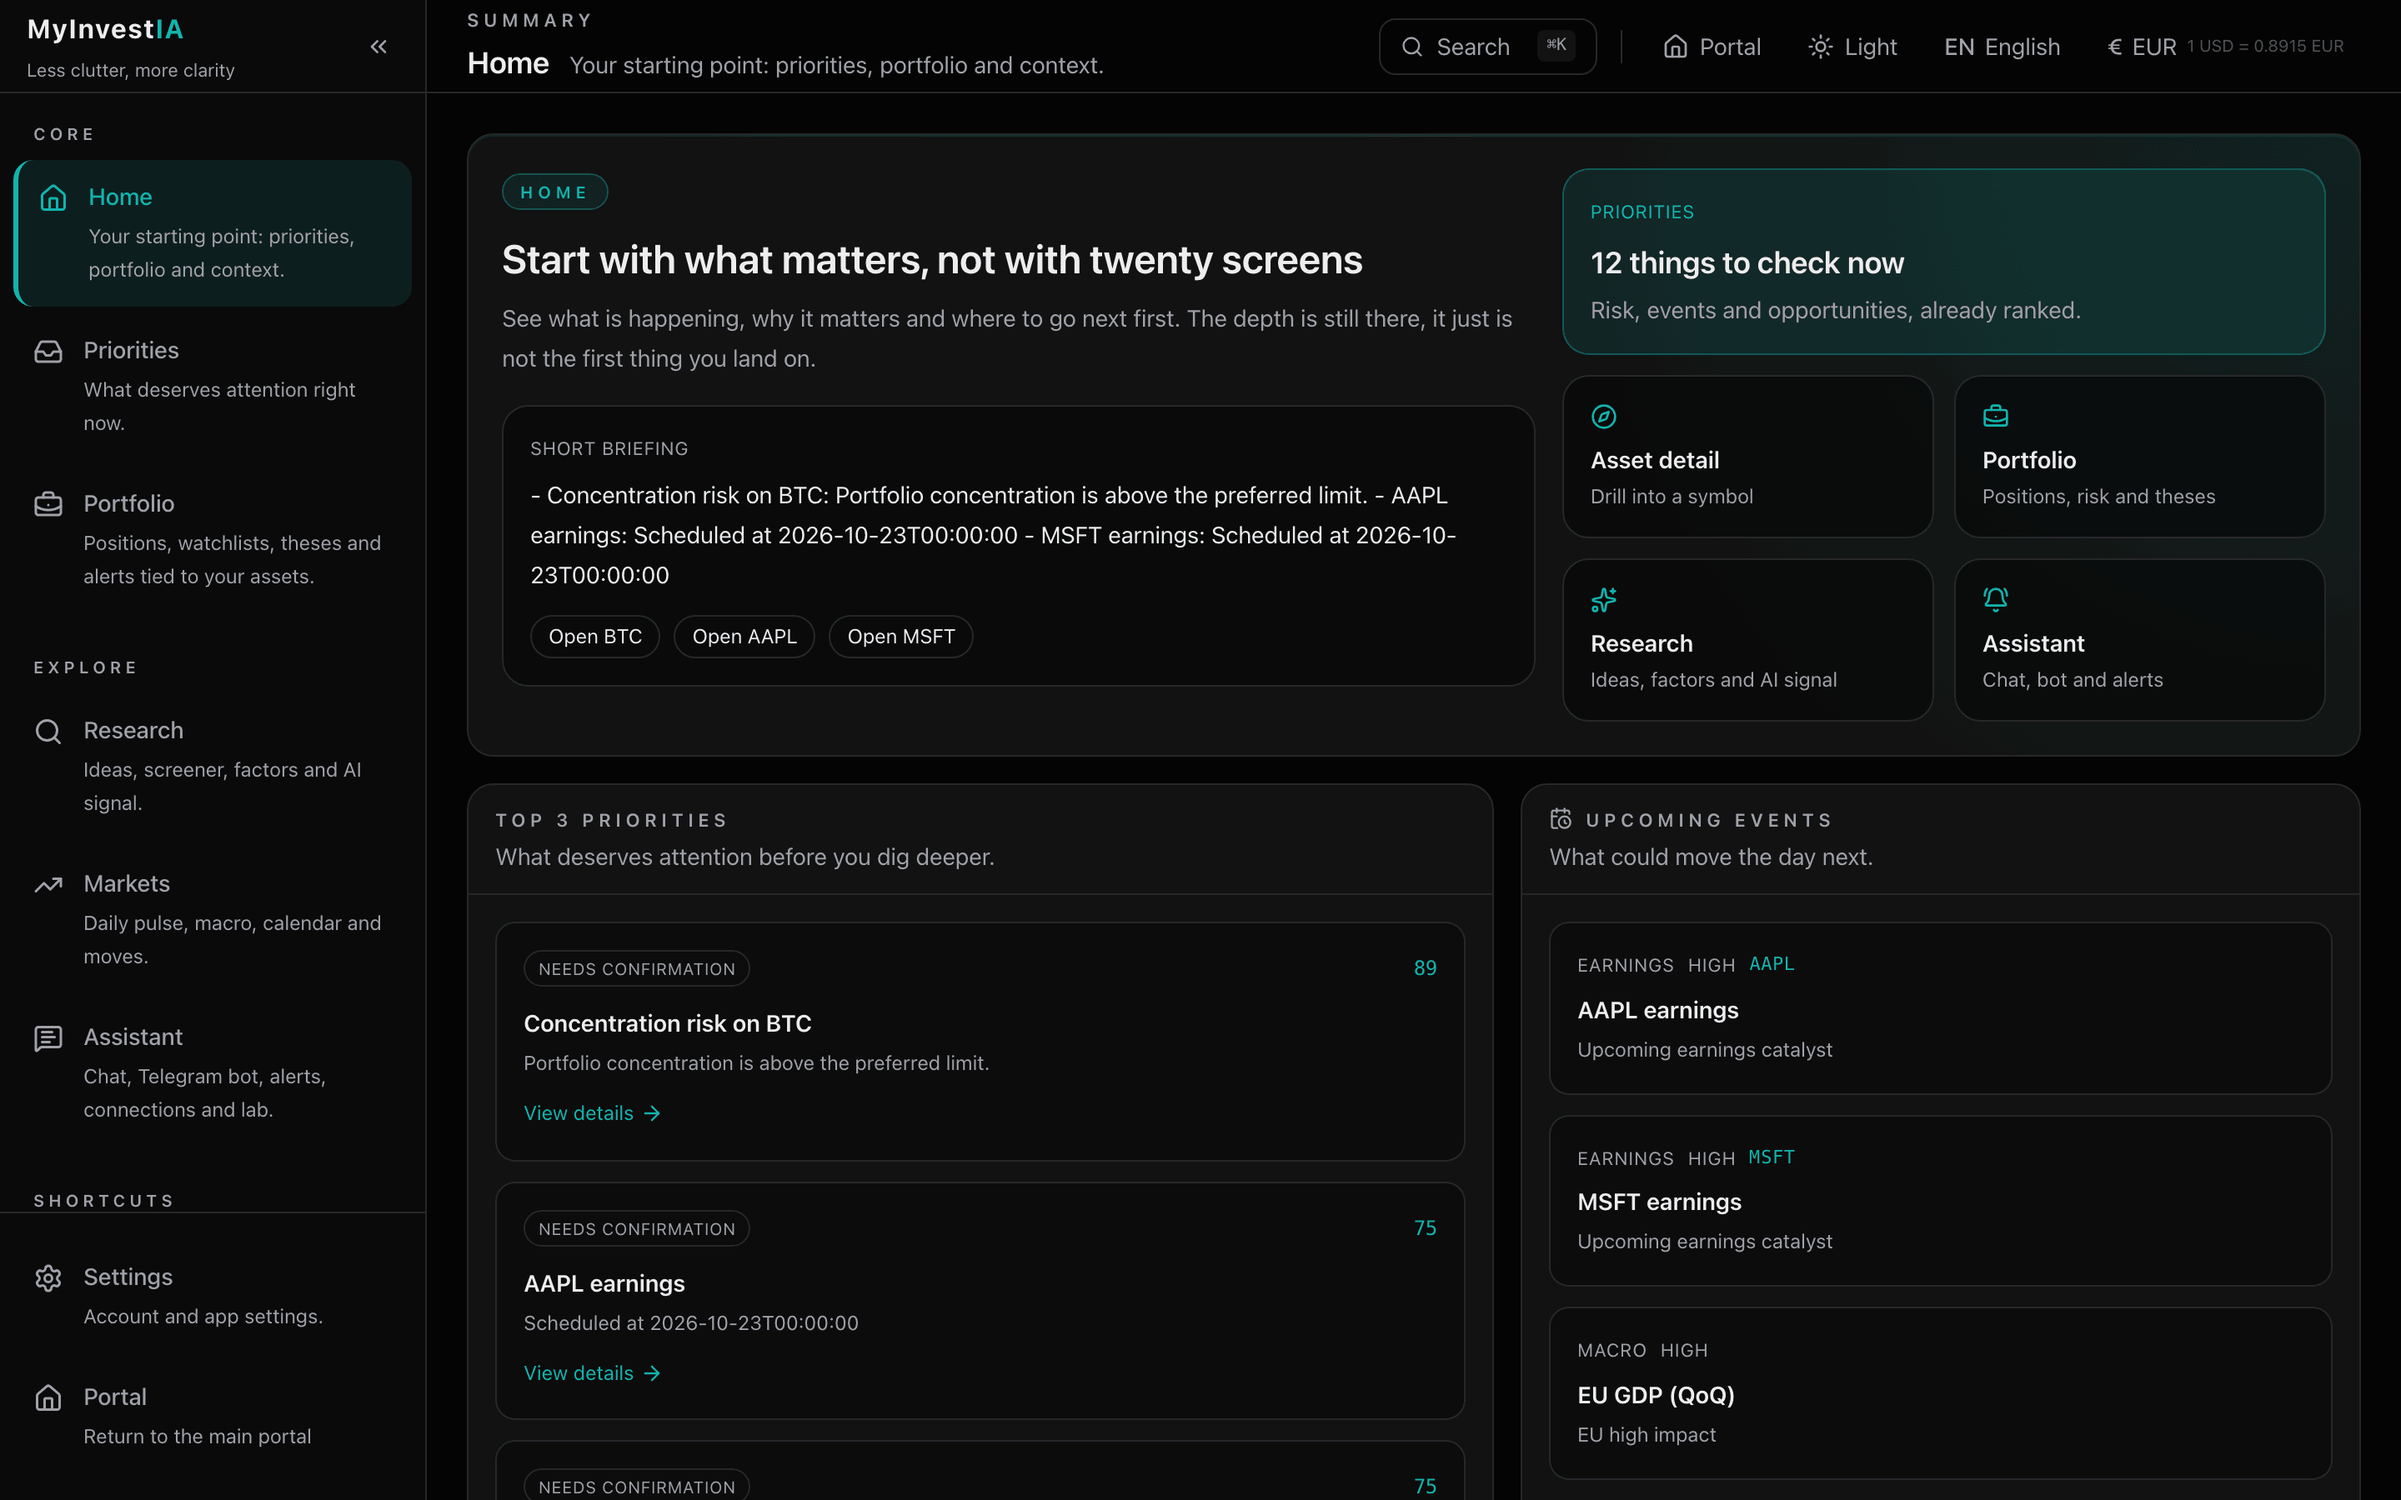
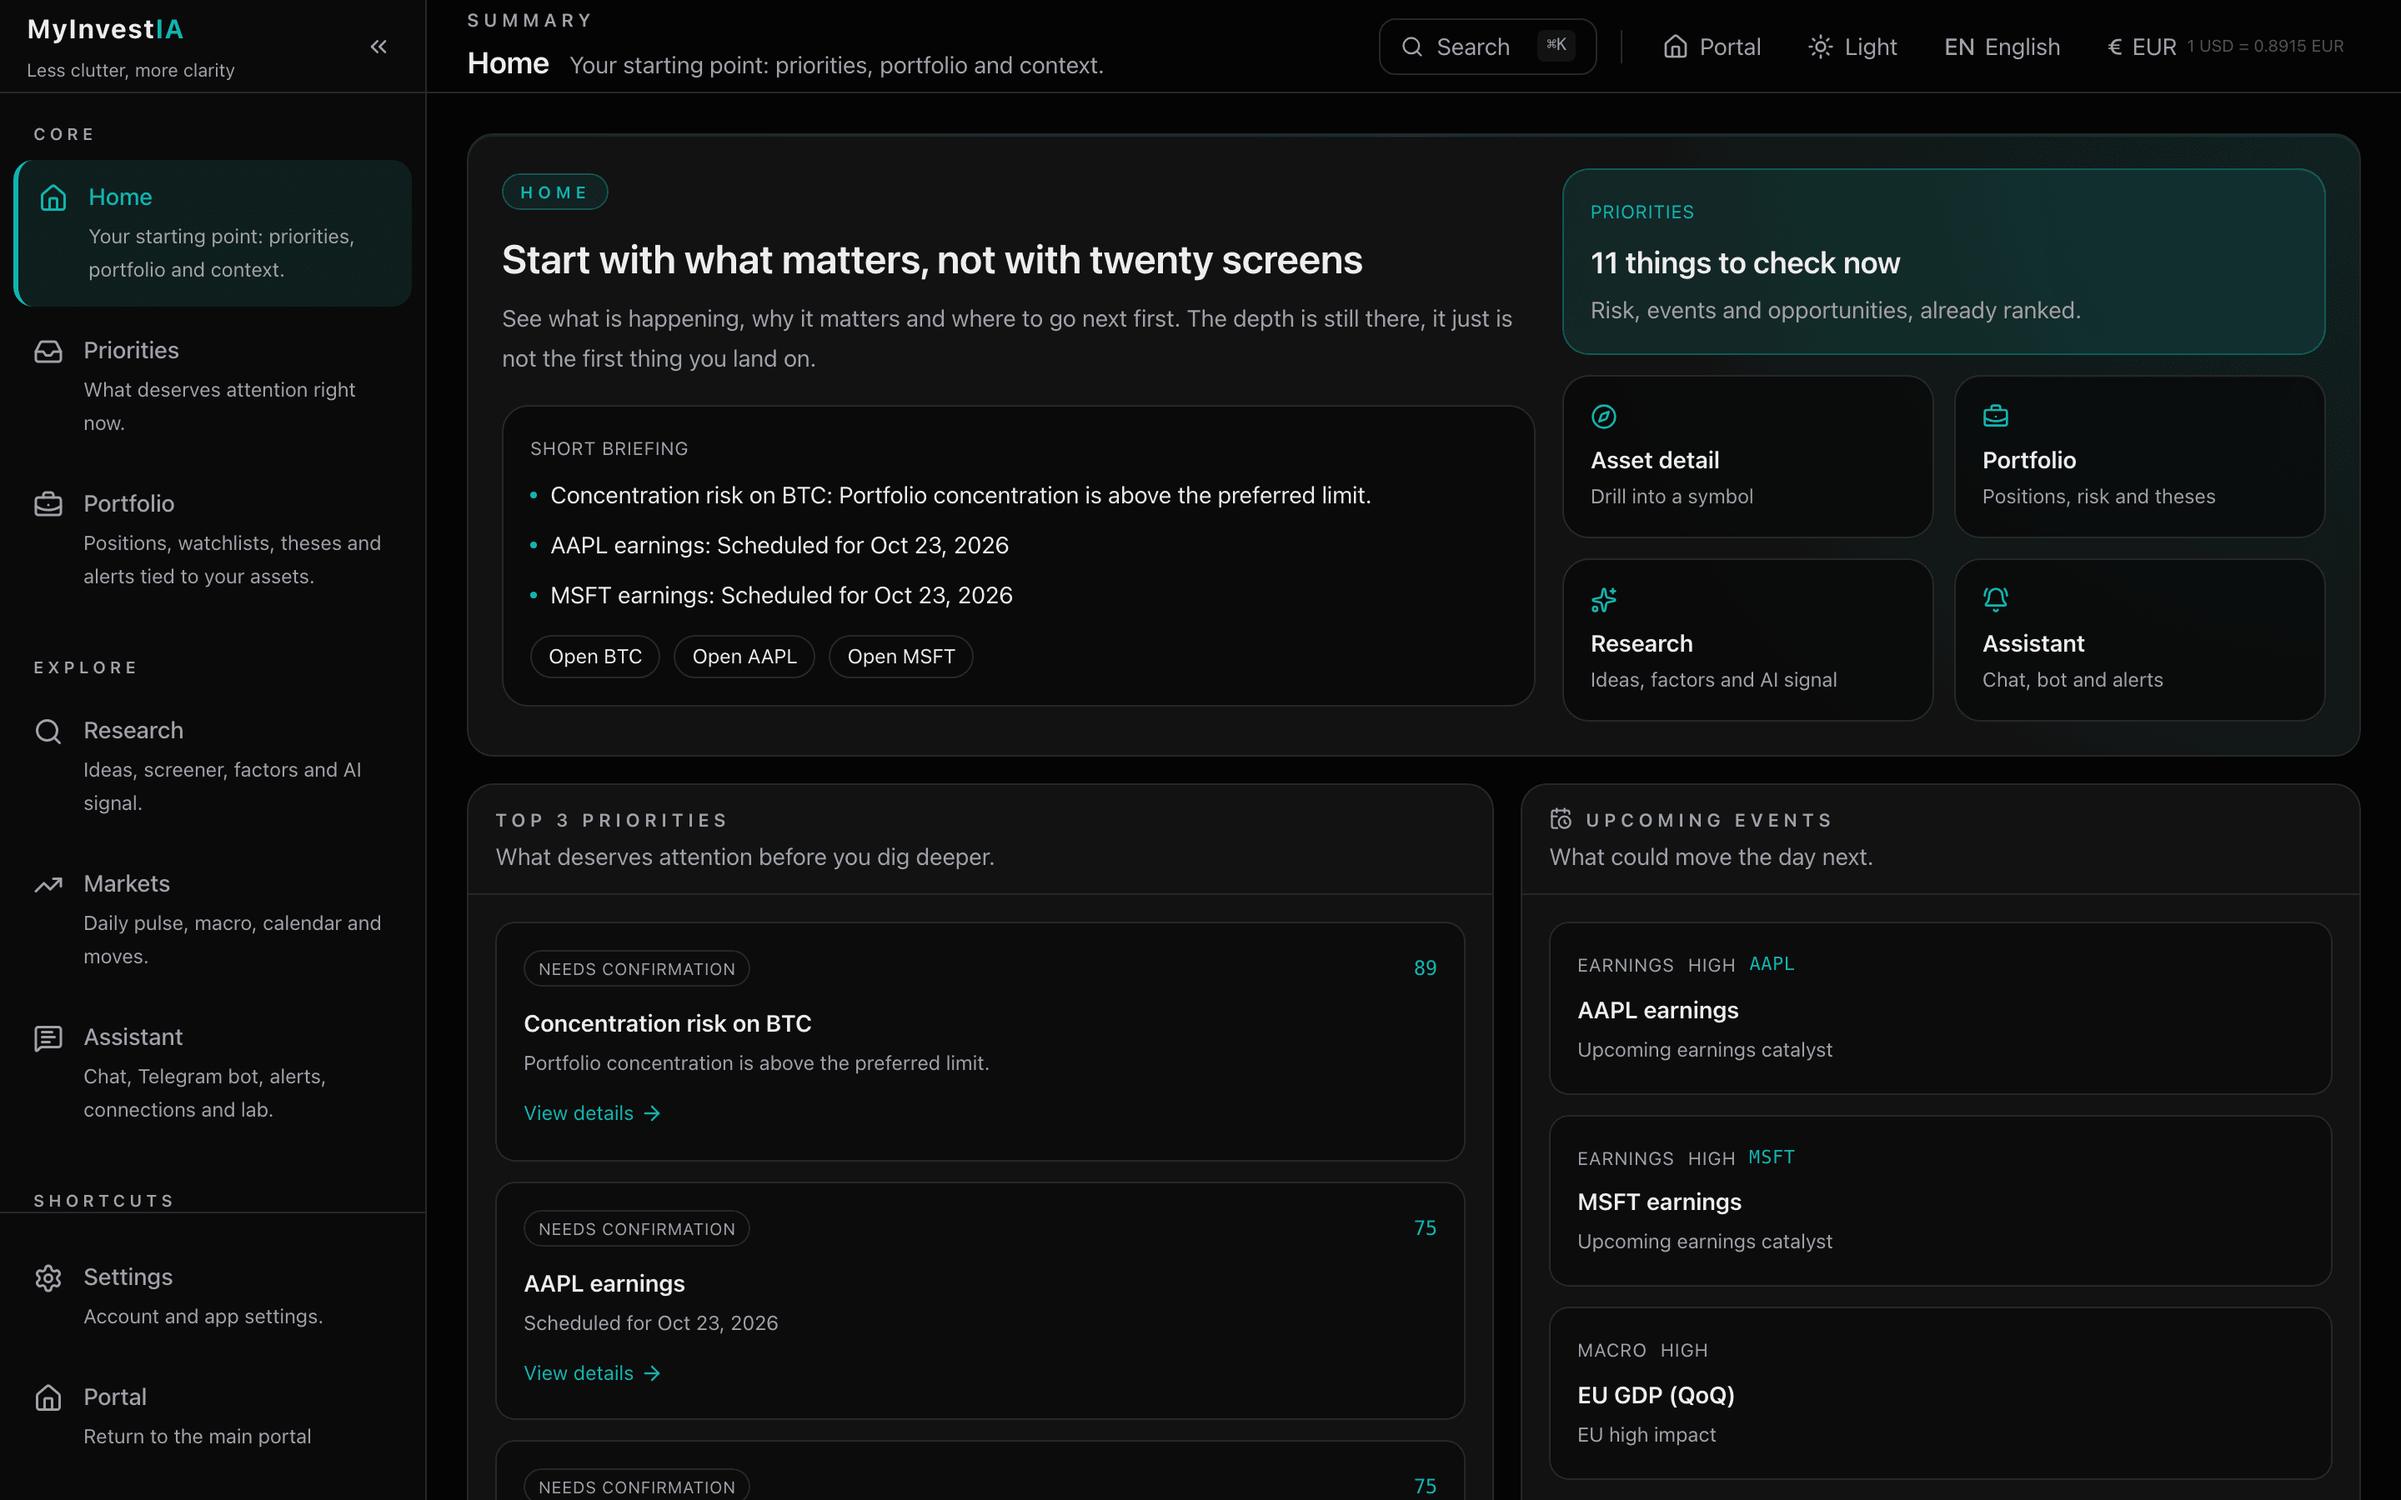
Format inline dates with the active locale and render the briefing as a list
ISO timestamps embedded in inbox and briefing text ("2026-10-23T00:00:00") are now shown as locale dates, and the home briefing renders its bullet points as a list instead of one joined string. Refresh the home screenshot.

Changed region(s): [[0.2188, 0.3111, 0.5938, 0.4667], [0.6562, 0.1556, 0.8125, 0.1867], [0.2812, 0.8711, 0.3438, 0.9022]]

diff --git a/frontend/src/components/views/OverviewView.tsx b/frontend/src/components/views/OverviewView.tsx
@@ -8,7 +8,7 @@ import BreakingNewsFeed from "@/components/dashboard/BreakingNewsFeed";
 import { useInbox } from "@/hooks/useInbox";
 import { useBriefing } from "@/hooks/useBriefing";
 import { useView } from "@/contexts/ViewContext";
-import { getInboxStateLabel } from "@/lib/presentation";
+import { formatInlineDates, getInboxStateLabel } from "@/lib/presentation";
 import useLanguageStore from "@/stores/useLanguageStore";
 
 const COPY = {
@@ -72,6 +72,12 @@ export default function OverviewView() {
   const c = COPY[language];
   const topItems = inbox?.items.slice(0, 3) ?? [];
   const nextEvents = briefing?.next_events?.slice(0, 3) ?? [];
+  // The briefing arrives as markdown: keep the first section's bullet points.
+  const briefingLines = (briefing?.briefing?.split("\n## ")[0] ?? "")
+    .split("\n")
+    .filter((line) => line.trim().startsWith("- "))
+    .map((line) => formatInlineDates(line.trim().slice(2), language))
+    .slice(0, 4);
 
   return (
     <div className="space-y-4">
@@ -87,9 +93,18 @@ export default function OverviewView() {
             </p>
             <div className="mt-4 rounded-2xl border border-oracle-border bg-oracle-bg/60 p-4">
               <p className="text-[11px] uppercase tracking-wide text-oracle-muted">{c.brief}</p>
-              <p className="mt-2 text-sm leading-6 text-oracle-text">
-                {briefing?.briefing?.split("\n").filter((line) => !line.startsWith("#")).slice(0, 4).join(" ") || c.generating}
-              </p>
+              {briefingLines.length > 0 ? (
+                <ul className="mt-2 space-y-1.5 text-sm leading-6 text-oracle-text">
+                  {briefingLines.map((line) => (
+                    <li key={line} className="flex gap-2">
+                      <span className="mt-2.5 h-1 w-1 shrink-0 rounded-full bg-oracle-accent" />
+                      <span>{line}</span>
+                    </li>
+                  ))}
+                </ul>
+              ) : (
+                <p className="mt-2 text-sm leading-6 text-oracle-text">{c.generating}</p>
+              )}
               <div className="mt-3 flex flex-wrap gap-2">
                 {(briefing?.suggestions ?? []).slice(0, 4).map((suggestion) => (
                   <button
@@ -184,7 +199,7 @@ export default function OverviewView() {
                   <span className="ml-auto text-xs font-mono text-oracle-accent">{item.priority_score.toFixed(0)}</span>
                 </div>
                 <p className="mt-3 text-sm font-semibold text-oracle-text">{item.title}</p>
-                <p className="mt-1 text-xs leading-5 text-oracle-muted">{item.why_now || item.summary}</p>
+                <p className="mt-1 text-xs leading-5 text-oracle-muted">{formatInlineDates(item.why_now || item.summary, language)}</p>
                 <div className="mt-3 inline-flex items-center gap-1 text-xs text-oracle-accent">
                   {c.details}
                   <ArrowRight className="h-3.5 w-3.5" />

diff --git a/frontend/src/components/views/TerminalView.tsx b/frontend/src/components/views/TerminalView.tsx
@@ -28,6 +28,8 @@ import {
 } from "lucide-react";
 
 import { useView } from "@/contexts/ViewContext";
+import { formatInlineDates } from "@/lib/presentation";
+import useLanguageStore from "@/stores/useLanguageStore";
 import { fetchAPI } from "@/lib/api";
 import type {
   AnalyzedArticle,
@@ -206,6 +208,7 @@ function NewsWire({ articles }: { articles: AnalyzedArticle[] }) {
 }
 
 export default function TerminalView() {
+  const language = useLanguageStore((state) => state.language);
   const { selectedSymbol, setSelectedSymbol } = useView();
   const { formatPrice } = useCurrencyStore();
   const [inputSymbol, setInputSymbol] = useState(selectedSymbol || DEFAULT_SYMBOL);
@@ -637,7 +640,7 @@ export default function TerminalView() {
                   <p className="text-[11px] uppercase tracking-wide text-oracle-muted">Lo más importante ahora</p>
                   <p className="mt-2 text-sm font-medium text-oracle-text">{decisionInbox[0].title}</p>
                   <p className="mt-1 text-xs leading-5 text-oracle-muted">
-                    {decisionInbox[0].why_now || decisionInbox[0].summary}
+                    {formatInlineDates(decisionInbox[0].why_now || decisionInbox[0].summary, language)}
                   </p>
                 </div>
               ) : null}

diff --git a/frontend/src/components/views/InboxView.tsx b/frontend/src/components/views/InboxView.tsx
@@ -25,6 +25,7 @@ import {
   getInboxScopeLabel,
   getInboxStateLabel,
   getInboxStatusLabel,
+  formatInlineDates,
 } from "@/lib/presentation";
 import type { InboxItem } from "@/types";
 import { useView } from "@/contexts/ViewContext";
@@ -289,7 +290,7 @@ export default function InboxView() {
               <div className="grid gap-4 lg:grid-cols-2">
                 <div className="rounded-xl border border-oracle-border bg-oracle-bg/50 p-4">
                   <p className="text-[11px] uppercase tracking-wide text-oracle-muted">Qué pasa</p>
-                  <p className="mt-2 text-sm leading-6 text-oracle-text">{selectedItem.why_now || "Todavía esperamos confirmación adicional."}</p>
+                  <p className="mt-2 text-sm leading-6 text-oracle-text">{selectedItem.why_now ? formatInlineDates(selectedItem.why_now, language) : "Todavía esperamos confirmación adicional."}</p>
                 </div>
                 <div className="rounded-xl border border-oracle-border bg-oracle-bg/50 p-4">
                   <p className="text-[11px] uppercase tracking-wide text-oracle-muted">Por qué importa</p>

diff --git a/frontend/src/lib/presentation.ts b/frontend/src/lib/presentation.ts
@@ -203,3 +203,21 @@ export function getConfidenceBand(
   if (value >= 0.45) return language === "es" ? "Media" : "Medium";
   return language === "es" ? "Baja" : "Low";
 }
+
+const ISO_DATETIME = /\b(\d{4}-\d{2}-\d{2})(?:T(\d{2}):(\d{2})(?::\d{2}(?:\.\d+)?)?(?:Z|[+-]\d{2}:?\d{2})?)?\b/g;
+
+/** Replace ISO dates embedded in backend text ("Scheduled for 2026-10-23T00:00:00") with locale dates. */
+export function formatInlineDates(text: string, language: "es" | "en" = "es") {
+  const locale = language === "es" ? "es-ES" : "en-US";
+  return text.replace(ISO_DATETIME, (match, day: string, hour?: string, minute?: string) => {
+    const date = new Date(`${day}T${hour ?? "00"}:${minute ?? "00"}:00`);
+    if (Number.isNaN(date.getTime())) return match;
+    const hasTime = hour !== undefined && (hour !== "00" || minute !== "00");
+    return date.toLocaleString(locale, {
+      day: "numeric",
+      month: "short",
+      year: "numeric",
+      ...(hasTime ? { hour: "2-digit", minute: "2-digit" } : {}),
+    });
+  });
+}

diff --git a/backend/app/services/inbox_service.py b/backend/app/services/inbox_service.py
@@ -495,7 +495,7 @@ class InsightAssembler:
                     "kind": kind,
                     "title": event.get("title", "Event"),
                     "summary": event.get("description", ""),
-                    "why_now": f"Scheduled at {event.get('event_at', '')}",
+                    "why_now": f"Scheduled for {event.get('event_at', '')}",
                     "symbols": [event["symbol"]] if event.get("symbol") else [],
                     "primary_symbol": event.get("symbol"),
                     "confidence": 0.7,
